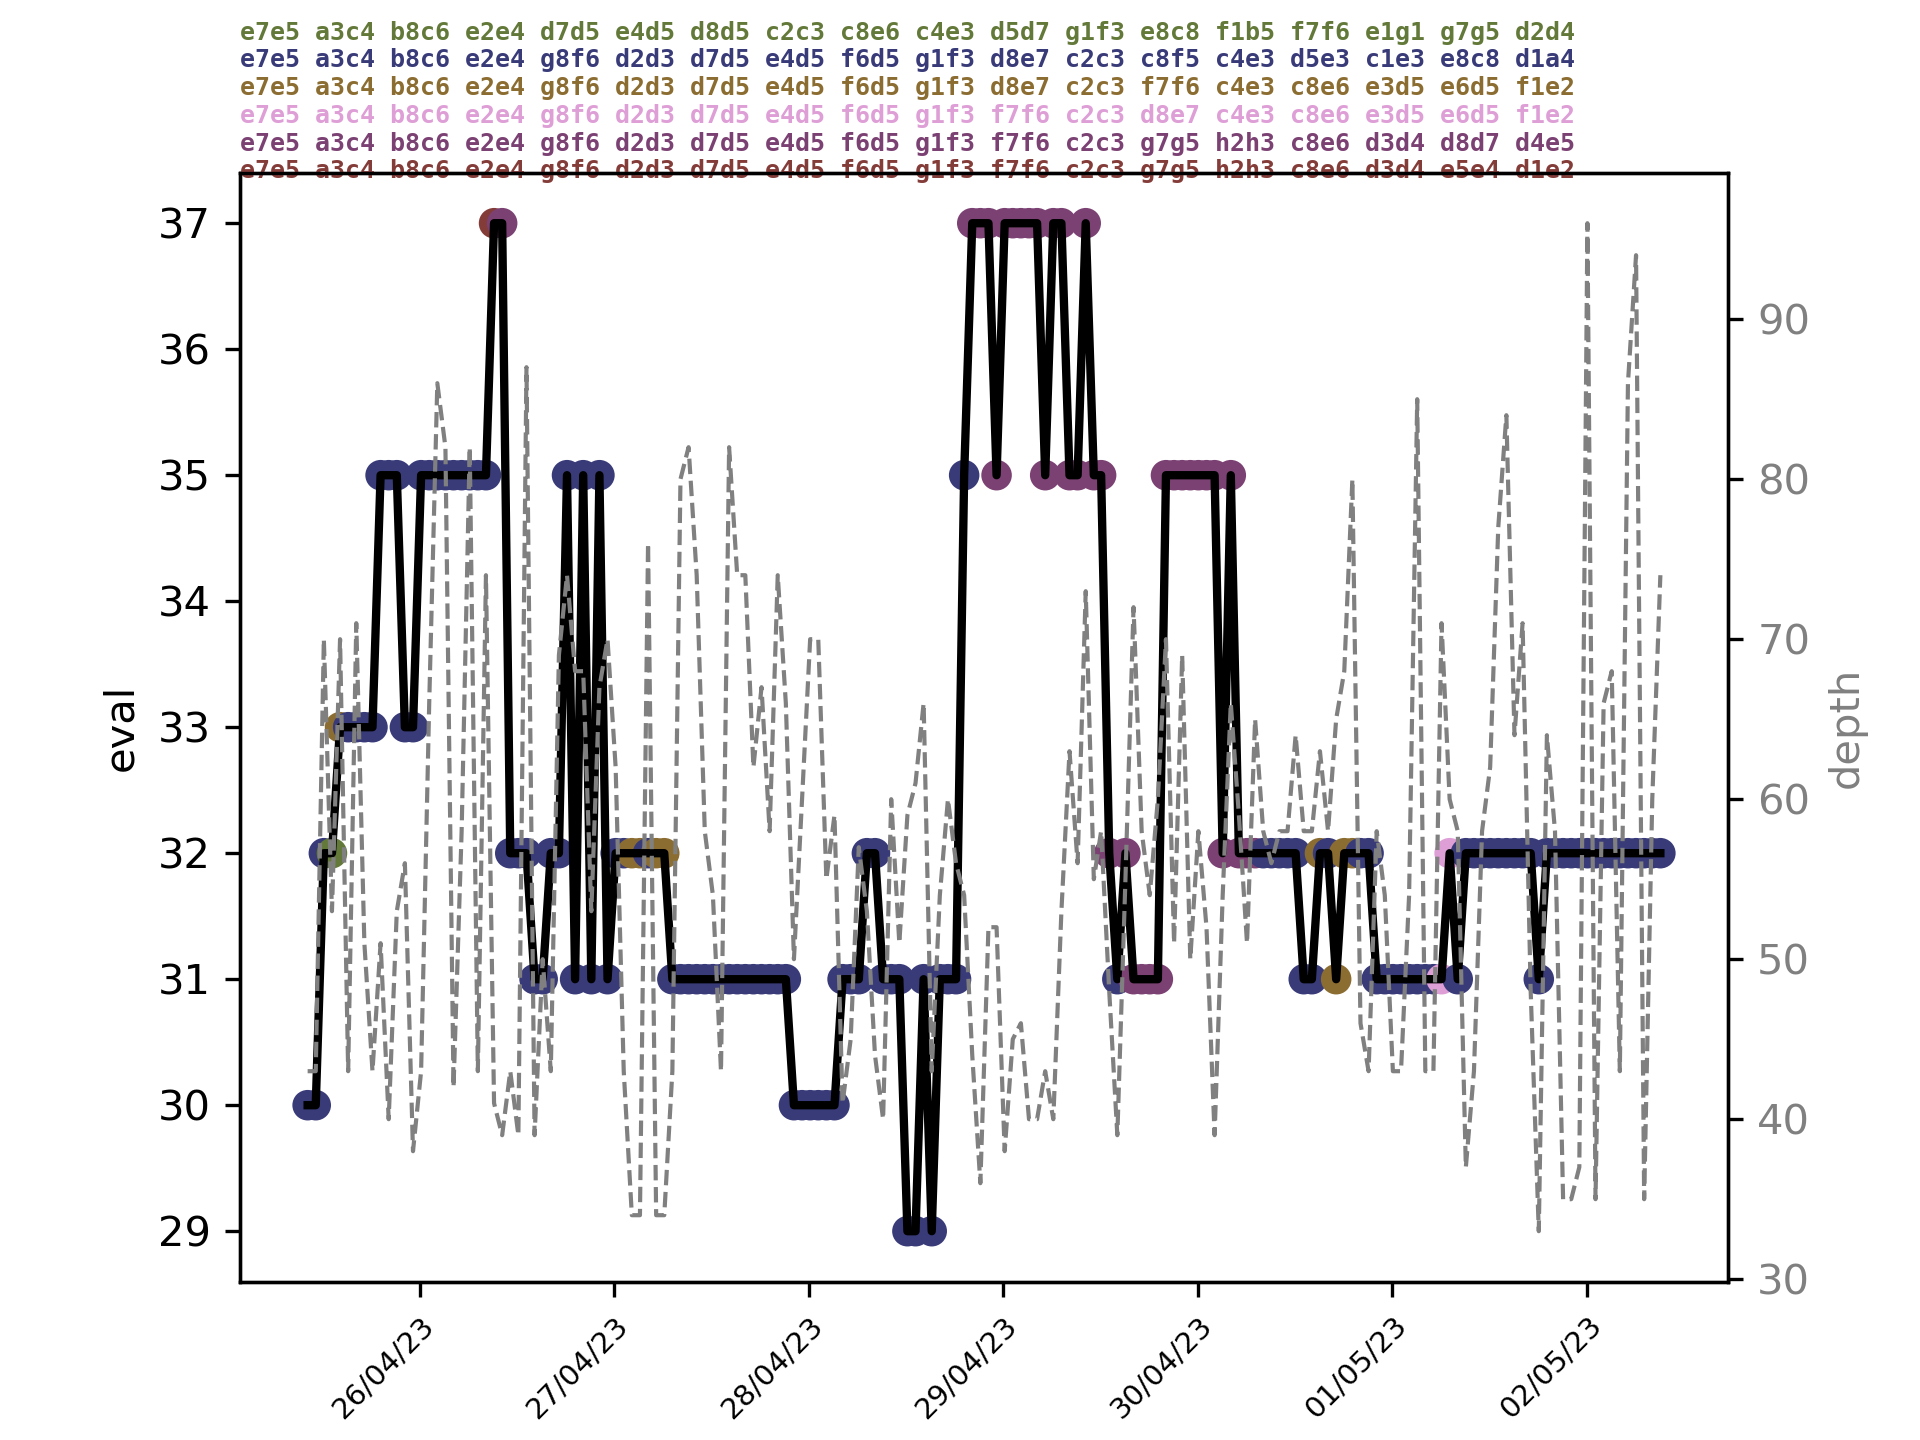
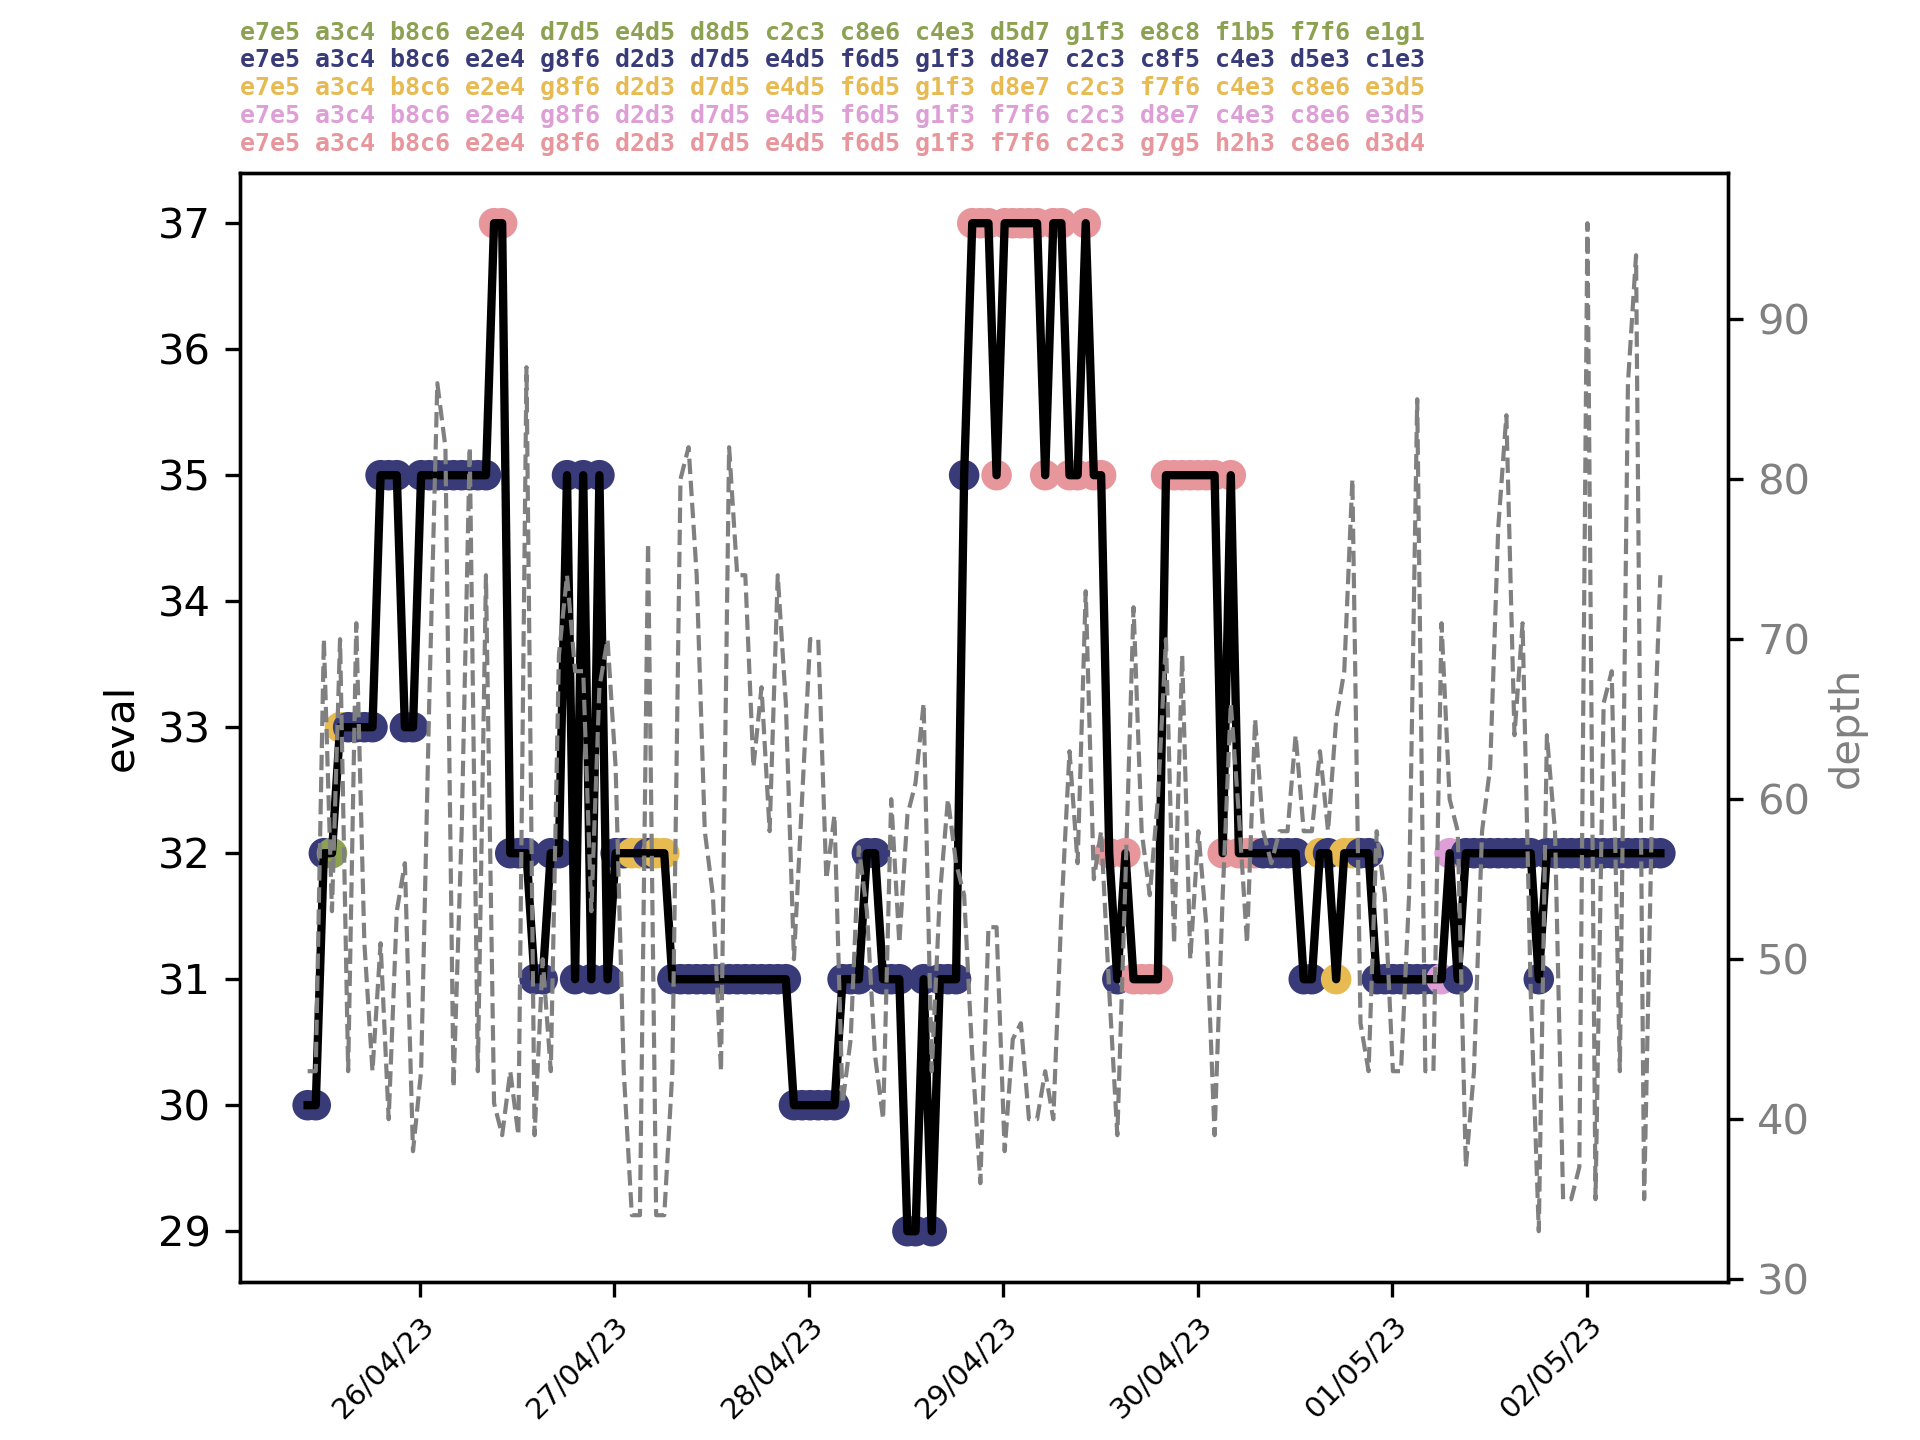
shorten displayed PVs

diff --git a/grobtrack.py b/grobtrack.py
@@ -70,5 +70,5 @@ def create_graph(prefix, length=4, cmap_name="tab20b"):
     plt.savefig(prefix + ".png", dpi=300)
 
 
-for move in [("g4",3), ("h4",8), ("Na3",18), ("Nh3",4), ("f3",20)]:
+for move in [("g4",2), ("h4",8), ("Na3",16), ("Nh3",4), ("f3",12)]:
     create_graph(*move) # , cmap_name="turbo")
